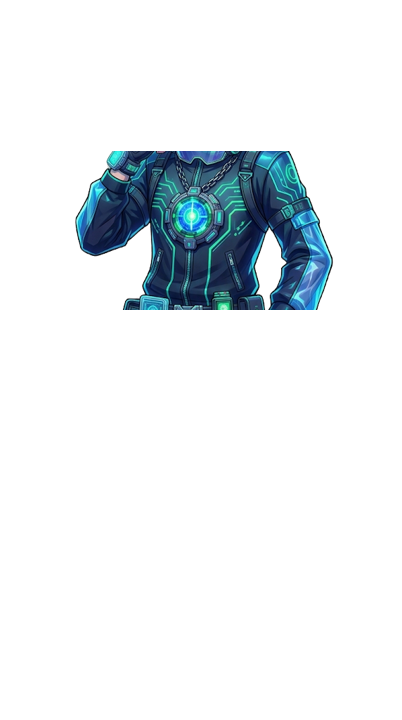
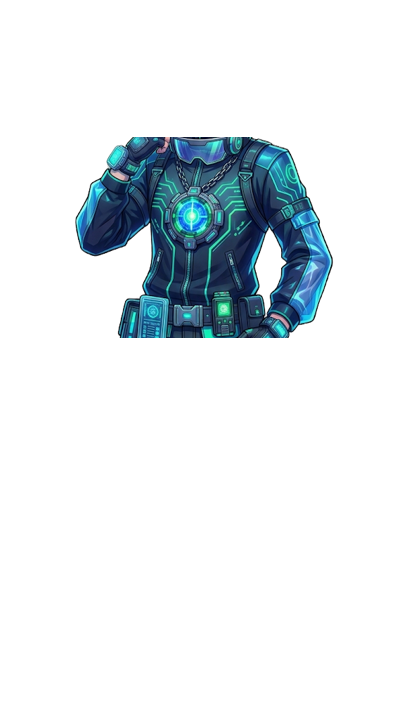
Stop the neck seam tearing open on every breath, and swing the arms wider
The head band was lifting ~1.6px clear of the torso once per breath and
showing a clean line of classroom through the gap.

Cause was the `nod` channel I added last round: it translated the head
upward relative to its parent. The body bands are cut from one flat
illustration and butt straight up against each other with nothing
painted behind them, so any relative translation between two parts
slides one off the other and uncovers the background. Rotation about a
shared joint is safe (the joint itself does not move) and so is the
torso's scale (it is centred on the waist, and everything above rides
it) - translation never is.

`nod` was also redundant. The head already rises 3.6px per breath
because the chest expanding underneath displaces everything parented to
the torso, which is both the physically right amount and inherently
seam-safe. Removed the channel, and with it the only per-part
translation in the rig; the no-translation rule is now documented in
rig.js as a constraint rather than a style choice.

Belt and braces on top of that: re-cut the bands to overlap across each
joint (head 0-0.25, torso 0.19-0.47, lower 0.43-1) instead of meeting
exactly at it. With ~20px of overlap and back-to-front draw order,
small movements happen inside the overlap and cannot uncover anything.
Verified by driving the rig at 4x amplitude, where the collar previously
tore open at 3x - now clean.

Arms swing wider as asked: SWAY_RAD 0.014 -> 0.02 and heavier per-arm
[…]

Changed region(s): [[0.2985, 0.4278, 0.806, 0.4889], [0.2687, 0.1833, 0.7164, 0.2139]]

diff --git a/src/vn/content/demo-characters.js b/src/vn/content/demo-characters.js
@@ -12,7 +12,7 @@ import { Character } from '../character.js';
 // swings like a bobblehead. Hence buildRig() taking measurements rather
 // than one hard-coded list.
 //
-// The weights (breathe/tilt/nod/sway/bounce) and `spring` settings are the
+// The weights (breathe/tilt/sway) and `spring` settings are the
 // performance itself: torso carries the breath, head drifts and rides on
 // top of it, hair lags behind the head. See rig.js.
 function buildRig({ neck, waist, shoulderY, shoulderL, shoulderR, crown }) {
@@ -34,15 +34,16 @@ function buildRig({ neck, waist, shoulderY, shoulderL, shoulderR, crown }) {
     // Arms hang off the torso. They need a drift of their own, on a
     // different period, or they read as welded on: the spring alone only
     // lags them behind the torso, and the torso barely rotates, so the lag
-    // came out at a fraction of a degree.
-    { name: 'arm_l', parent: 'torso', pivot: [shoulderL, shoulderY], sway: 1, spring: { stiffness: 45, damping: 10, amount: 0.6 } },
-    { name: 'arm_r', parent: 'torso', pivot: [shoulderR, shoulderY], sway: -0.85, spring: { stiffness: 38, damping: 9, amount: 0.6 } },
+    // came out at a fraction of a degree. Opposite signs so the two arms
+    // never swing as one slab.
+    { name: 'arm_l', parent: 'torso', pivot: [shoulderL, shoulderY], sway: 1.3, spring: { stiffness: 45, damping: 10, amount: 0.6 } },
+    { name: 'arm_r', parent: 'torso', pivot: [shoulderR, shoulderY], sway: -1.15, spring: { stiffness: 38, damping: 9, amount: 0.6 } },
 
-    // Head rides on the torso. It is lifted by the chest expanding under
-    // it (that comes for free from the parent's scale); `nod` adds a touch
-    // more, and `sway` gives it a drift that is not just a multiple of the
-    // torso's.
-    { name: 'head', parent: 'torso', pivot: [0.5, neck], tilt: -0.3, sway: 0.35, nod: 1 },
+    // Head rides on the torso. It is already lifted by the chest expanding
+    // underneath it - that comes for free from the parent's scale, and is
+    // the only lift it should get. `sway` gives it a drift that is not
+    // just a multiple of the torso's.
+    { name: 'head', parent: 'torso', pivot: [0.5, neck], tilt: -0.3, sway: 0.35 },
 
     // Driven by the animation, not by `layers`: eyes swap open/closed on the
     // blink timer, mouth cycles closed/half/open while this character
@@ -60,15 +61,17 @@ function buildRig({ neck, waist, shoulderY, shoulderL, shoulderR, crown }) {
   ];
 }
 
-// Measured off this character's own artwork; the band cuts in
-// assets/characters/hero/ were made at the same neck/waist fractions:
+// Measured off this character's own artwork. The joints are at neck 0.21
+// and waist 0.43, but the band cuts deliberately OVERLAP across them:
 //   tools/split-parts.py <art>.png assets/characters/hero \
-//       head:0:0.21 torso:0.21:0.43 lower:0.43:1
+//       head:0:0.25 torso:0.19:0.47 lower:0.43:1
 //
-// Seams start to show past roughly 2x these motion amplitudes, because the
-// body bands are cut from a flat illustration with nothing painted behind
-// them - at 3x a gap opens at the collar. The rig's defaults sit well
-// inside that.
+// The overlap is what lets the seams survive motion. The bands come from a
+// flat illustration, so there is nothing painted behind them - butt-jointed
+// edges expose the background as a crisp line the moment two parts move
+// even a pixel apart. Each band reaching ~20px past its joint, drawn in
+// back-to-front order, means small movements happen inside the overlap and
+// never uncover anything.
 const HERO_RIG = buildRig({
   crown: 0.06,
   neck: 0.21,

diff --git a/src/vn/rig.js b/src/vn/rig.js
@@ -23,14 +23,18 @@ import { Spring } from './spring.js';
 // them back up. Deliberately small: on rigid parts, big amplitudes are
 // exactly when the seams between pieces start to show.
 //
-// Both idle channels drive *rotation about a joint*, never a sideways
-// slide. A slide moves a part off the one it hangs from, so the waist or
-// neck visibly shears; rotating about the joint is what an actual body
-// does and cannot come apart.
+// Every channel drives either rotation about a joint or a scale centred on
+// one. Nothing translates a part relative to its parent, and that is a hard
+// rule, not a preference: the body bands are cut from one illustration and
+// butt up against each other with no overlap to spare, so ANY relative
+// translation slides one off the other and opens a clean line of background
+// at the seam. (A "nod" channel that lifted the head a couple of pixels on
+// each breath did exactly that - it tore the neck open once per breath. The
+// head already rises the right amount for free, because the chest expanding
+// underneath it displaces everything parented to the torso.)
 const BREATHE_SCALE = 0.03; // vertical scale delta - the dominant motion
 const TILT_RAD = 0.012; // ~0.7 degrees of slow postural drift
-const SWAY_RAD = 0.014; // ~0.8 degrees, second drift on its own period
-const NOD_FRAC = 0.003; // head lift on the breath, on top of what the chest already gives it
+const SWAY_RAD = 0.02; // ~1.15 degrees, second drift on its own period
 
 export class Rig {
   // `parts` is the draw order, back to front. Each entry:
@@ -40,7 +44,6 @@ export class Rig {
   //            y from the TOP - the joint this part rotates around
   //   breathe  0..1 weight - vertical scale about this part's own pivot
   //   tilt/sway  0..1 weights - rotation, from two independent slow drifts
-  //   nod      0..1 weight - vertical lift on the breath
   //   spring   { stiffness, damping, amount } - lag behind the parent's
   //            rotation instead of following it rigidly (hair, loose sleeves)
   //   blink    true: variant is driven by the blink timer (open/closed)
@@ -53,12 +56,11 @@ export class Rig {
       breathe: p.breathe ?? 0,
       tilt: p.tilt ?? 0,
       sway: p.sway ?? 0,
-      nod: p.nod ?? 0,
       blink: p.blink ?? false,
       talk: p.talk ?? false,
       springConfig: p.spring ?? null,
       spring: p.spring ? new Spring(p.spring) : null,
-      transform: { y: 0, angle: 0, scaleX: 1, scaleY: 1 },
+      transform: { angle: 0, scaleX: 1, scaleY: 1 },
       worldAngle: 0,
       // Product of every ancestor's scaleY. The renderer divides this back
       // out of the part's own scale so a parent's breath moves it without
@@ -92,7 +94,6 @@ export class Rig {
       const t = part.transform;
       const parent = part.parent ? this.byName.get(part.parent) : null;
 
-      t.y = -motion.breathe * part.nod * NOD_FRAC;
       t.scaleX = 1;
       t.scaleY = 1 + motion.breathe * part.breathe * BREATHE_SCALE;
       t.angle = motion.tilt * part.tilt * TILT_RAD + motion.sway * part.sway * SWAY_RAD;

diff --git a/src/vn/portrait-renderer.js b/src/vn/portrait-renderer.js
@@ -73,7 +73,7 @@ export class PortraitRenderer {
     const pivotY = (part.pivot[1] - 1) * height;
     const scaleY = isSelf ? t.scaleY / (part.parentScaleY || 1) : t.scaleY;
 
-    ctx.translate(pivotX, pivotY + t.y * height);
+    ctx.translate(pivotX, pivotY);
     ctx.rotate(t.angle);
     ctx.scale(t.scaleX, scaleY);
     ctx.translate(-pivotX, -pivotY);
